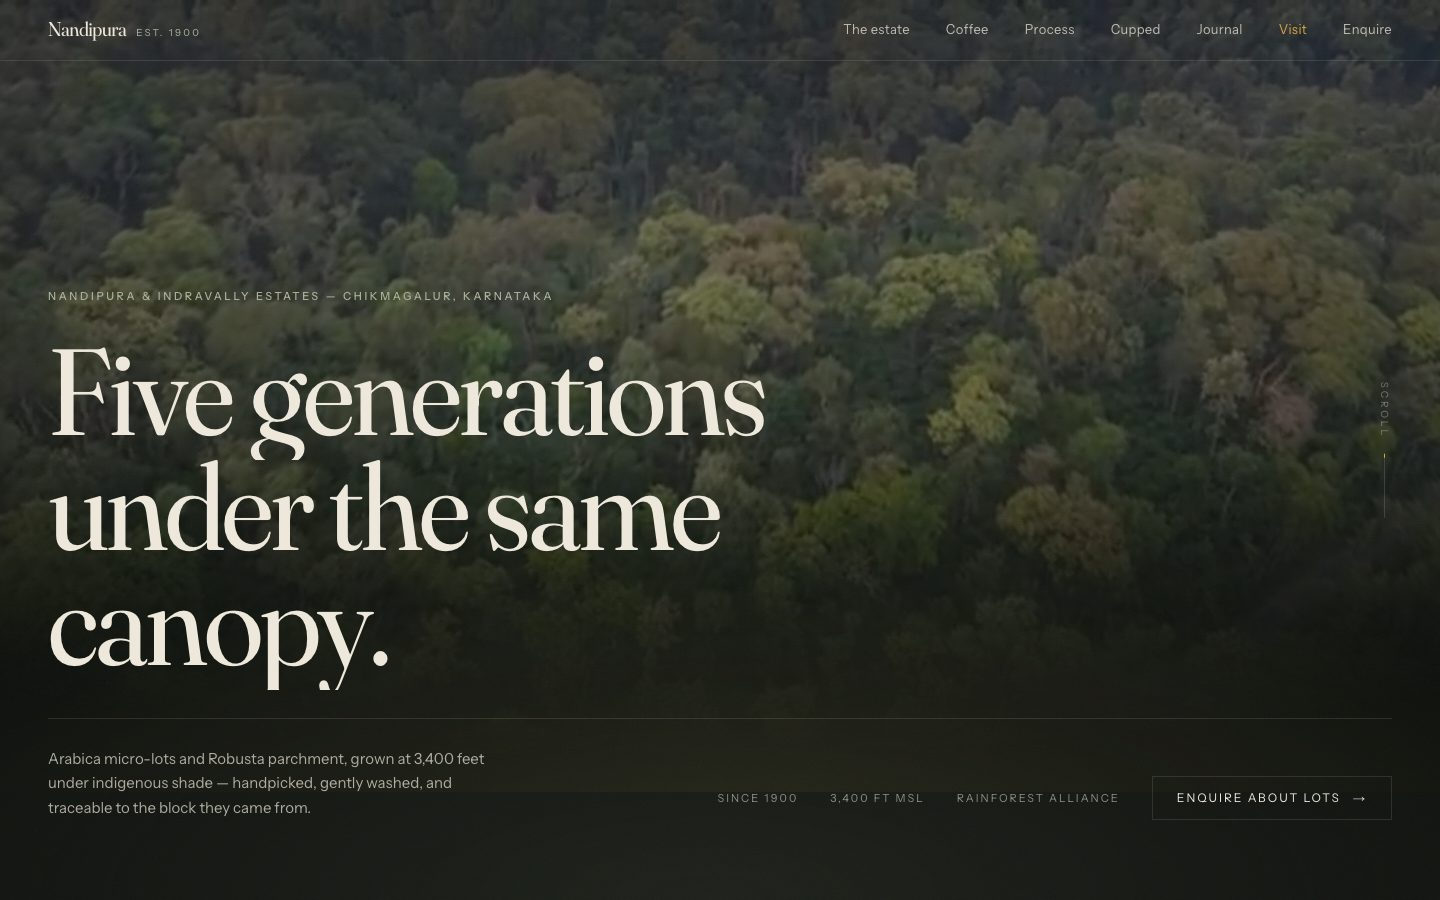
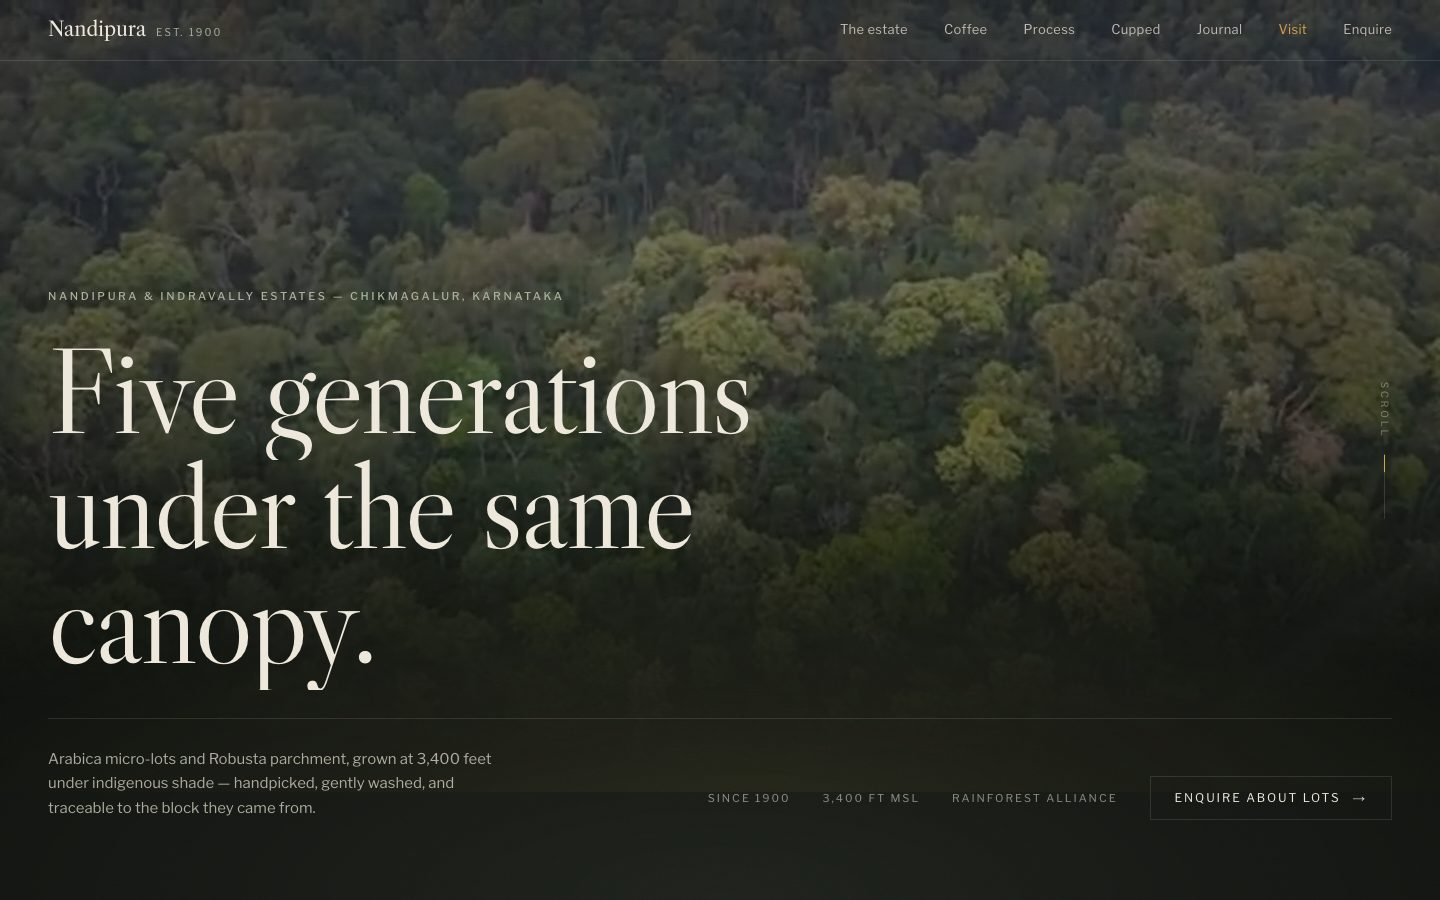
Nandipura case study: Libre Caslon + Libre Franklin type, fresh screenshots

diff --git a/data/websites.ts b/data/websites.ts
@@ -86,8 +86,9 @@ export const websites: Website[] = [
       { name: 'Honey', hex: '#D9A441' },
     ],
     type: [
-      { role: 'Display', face: 'Fraunces', why: 'A soft, slightly wonky old-style serif — it reads as agricultural and handmade at large sizes, which suits a family estate better than a crisp luxury serif.' },
-      { role: 'Text', face: 'Instrument Sans', why: 'Narrow and technical, for the facts a buyer scans: altitude, certification, process, lot type.' },
+      { role: 'Display', face: 'Libre Caslon Display', why: 'Caslon was the everyday type of colonial-era print in India when the estate was founded in 1900. At headline size it reads like an estate ledger or a planters’ notice: sharp, high-contrast and rarely seen on modern sites.' },
+      { role: 'Italic & small heads', face: 'Libre Caslon Text', why: 'The Display cut has no italic and its hairlines thin out below about 24px, so quotes, press lines and small headings drop to the sturdier Text cut of the same family.' },
+      { role: 'Text', face: 'Libre Franklin', why: 'A plain American gothic of the same era, for the facts a buyer scans: altitude, certification, process, lot type.' },
     ],
     language: [
       'Dark, forest-floor palette taken from under the canopy: near-black ink, moss and a cream that reads like unbleached paper.',

diff --git a/app/websites/page.tsx b/app/websites/page.tsx
@@ -66,7 +66,7 @@ export default function WebsitesPage() {
                         ))}
                       </span>
                       <span className="text-[13px]" style={{ color: 'var(--ink-3)' }}>
-                        {[...new Set(w.type.map((t) => t.face.split(',')[0]))].join(' and ')}
+                        {new Intl.ListFormat('en-GB', { type: 'conjunction' }).format([...new Set(w.type.map((t) => t.face.split(',')[0]))])}
                       </span>
                     </div>
                   </div>
